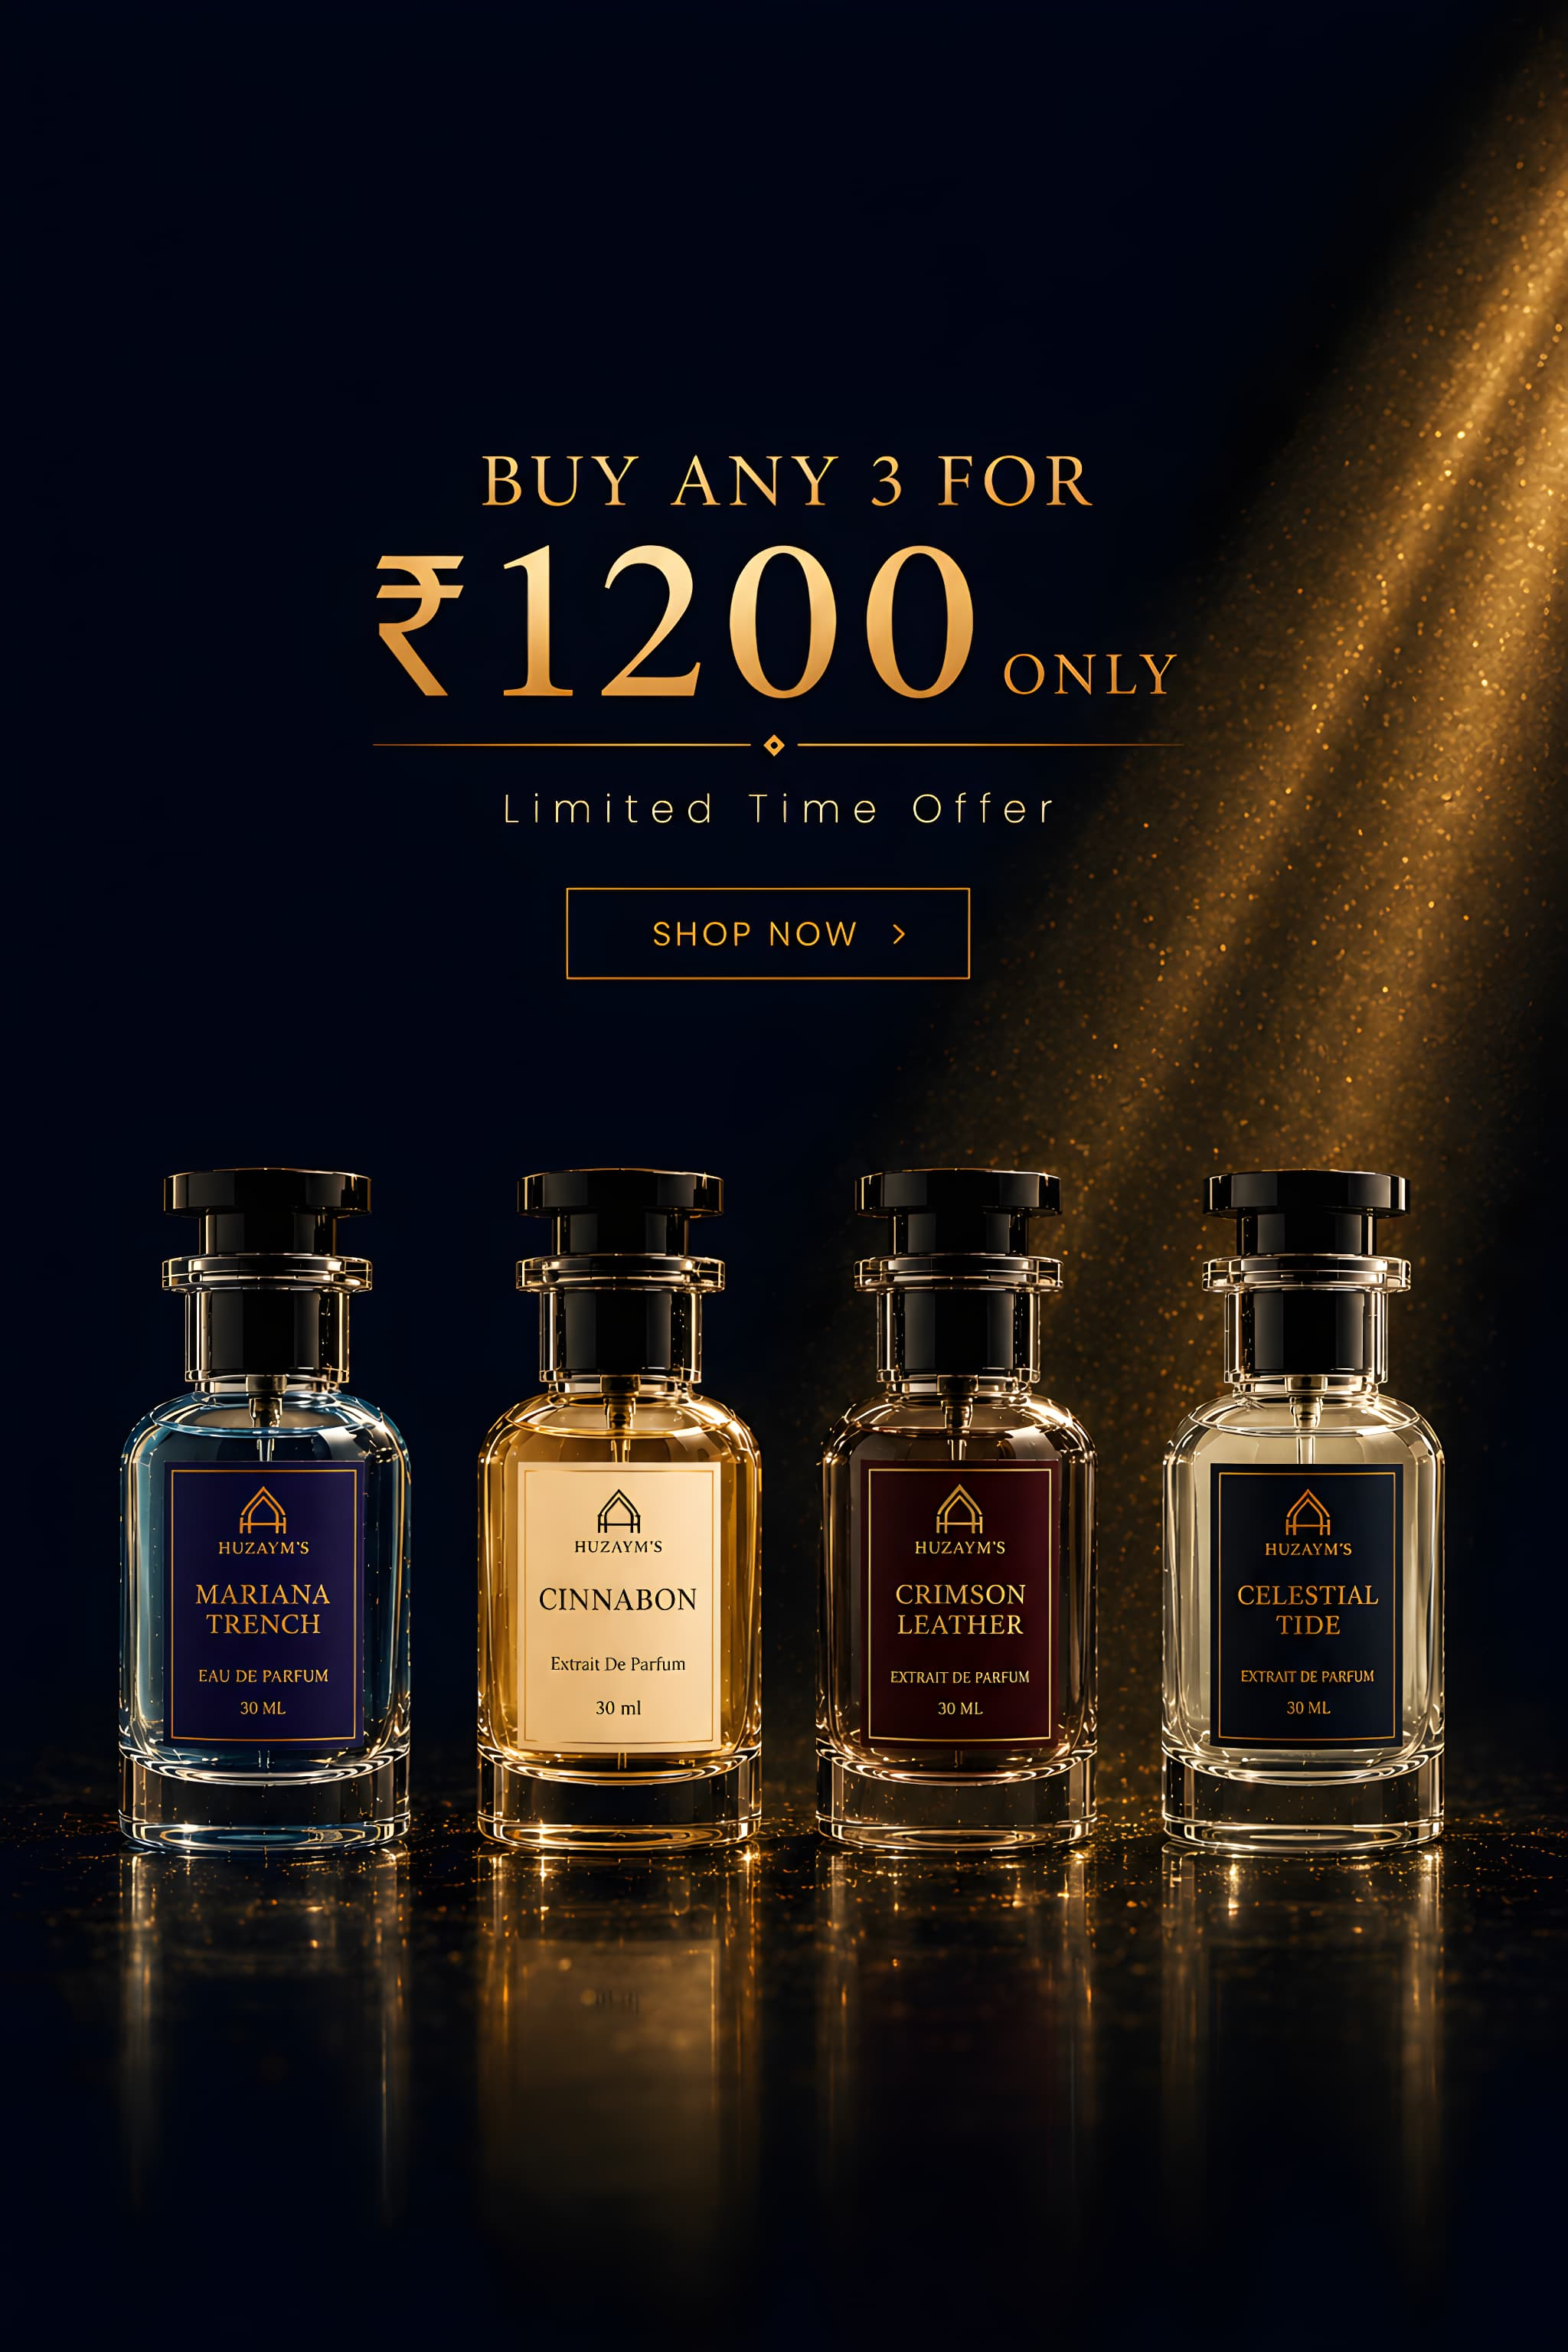
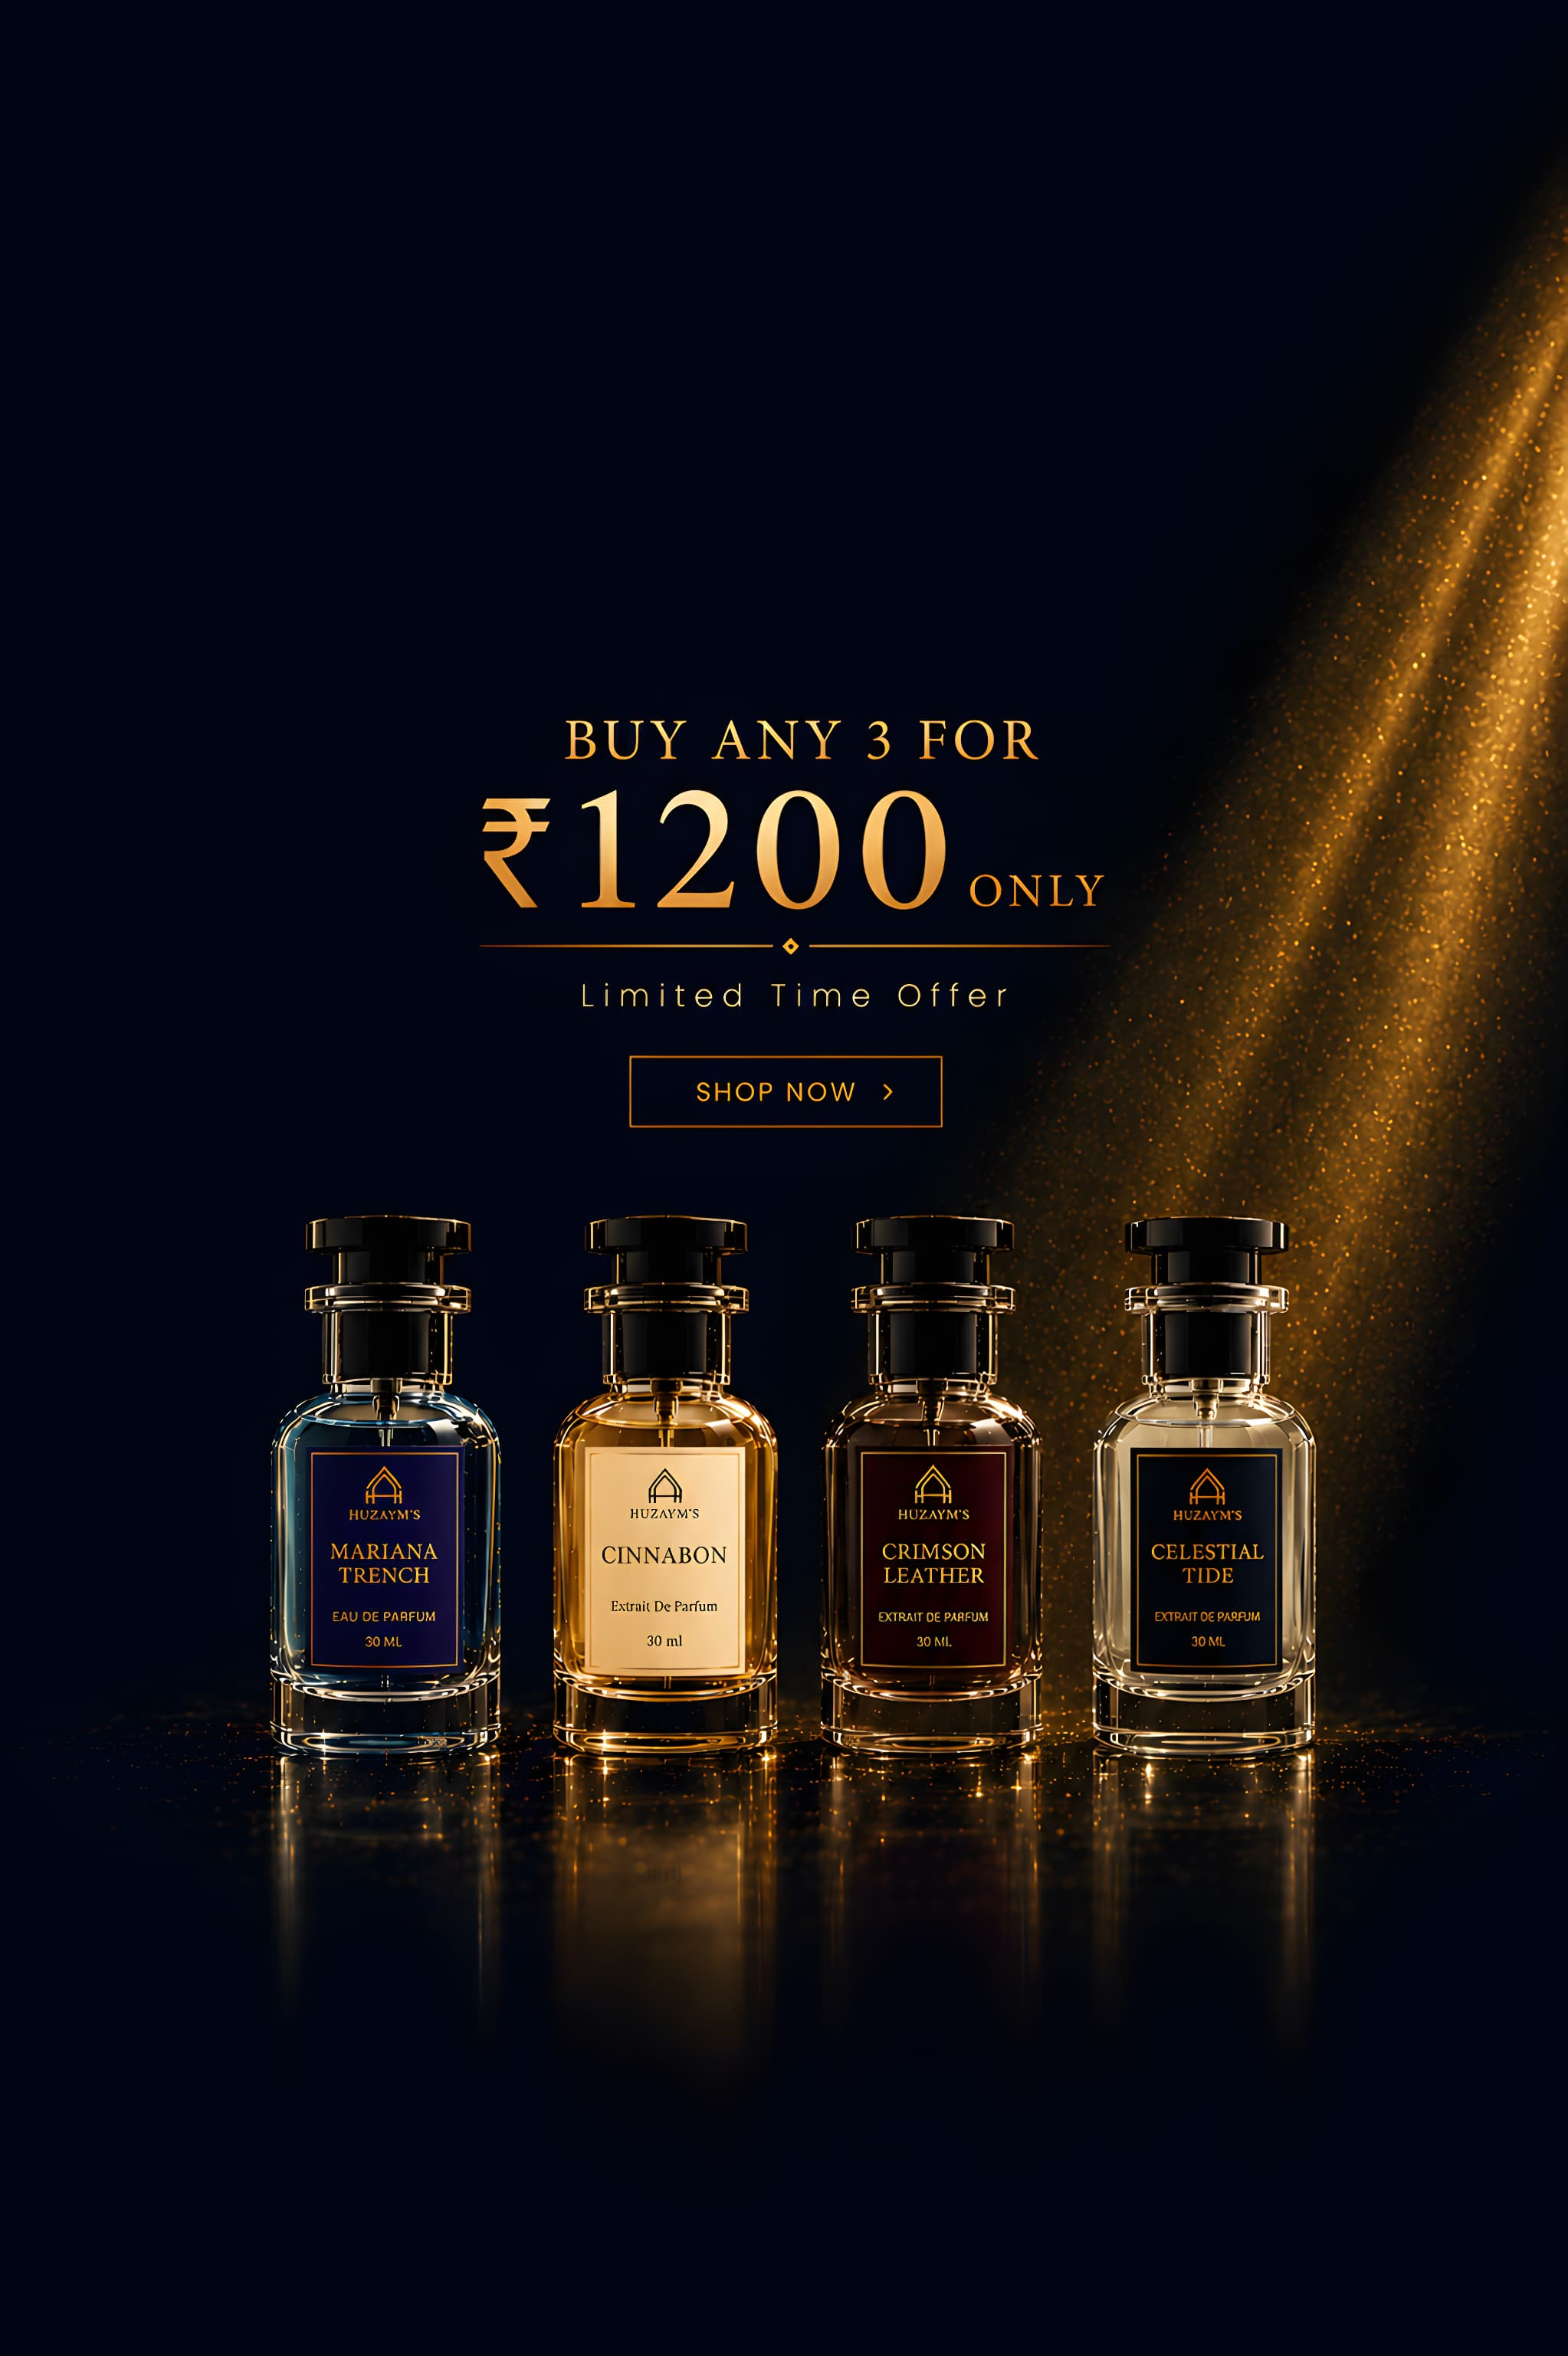
V1.2 completed

Changed region(s): [[0.0616, 0.0, 1.0, 0.9375], [0.2463, 0.2188, 0.3079, 0.3125]]

diff --git a/components/home/HeroCampaign.tsx b/components/home/HeroCampaign.tsx
@@ -1,22 +1,71 @@
 "use client";
 
-import { useState, useEffect } from "react";
+import { useState, useEffect, useRef } from "react";
 import Link from "next/link";
 import { HERO_SLIDES } from "@/data/heroSlides";
 
 export default function HeroCampaign() {
   const [currentSlide, setCurrentSlide] = useState(0);
+  const touchStartX = useRef<number | null>(null);
+const touchEndX = useRef<number | null>(null);
 
+const intervalRef = useRef<NodeJS.Timeout | null>(null);
   useEffect(() => {
-    const timer = setInterval(() => {
-      setCurrentSlide((prev) => (prev + 1) % HERO_SLIDES.length);
-    }, 5000);
+  startAutoSlide();
 
-    return () => clearInterval(timer);
-  }, []);
+  return stopAutoSlide;
+}, []);
+
+const stopAutoSlide = () => {
+  if (intervalRef.current) clearInterval(intervalRef.current);
+};
+
+const startAutoSlide = () => {
+  stopAutoSlide();
+
+  intervalRef.current = setInterval(() => {
+    setCurrentSlide((prev) => (prev + 1) % HERO_SLIDES.length);
+  }, 5000);
+};
+
+const nextSlide = () => {
+  setCurrentSlide((prev) => (prev + 1) % HERO_SLIDES.length);
+};
+
+const previousSlide = () => {
+  setCurrentSlide((prev) =>
+    prev === 0 ? HERO_SLIDES.length - 1 : prev - 1
+  );
+};
 
   return (
-  <section className="relative h-[85svh] lg:h-[92vh]">
+  <section
+  className="relative h-[85svh] lg:h-[92vh]"
+  onTouchStart={(e) => {
+    stopAutoSlide();
+    touchStartX.current = e.touches[0].clientX;
+  }}
+  onTouchMove={(e) => {
+    touchEndX.current = e.touches[0].clientX;
+  }}
+  onTouchEnd={() => {
+    if (
+      touchStartX.current !== null &&
+      touchEndX.current !== null
+    ) {
+      const distance = touchStartX.current - touchEndX.current;
+
+      if (distance > 60) nextSlide();
+
+      if (distance < -60) previousSlide();
+    }
+
+    touchStartX.current = null;
+    touchEndX.current = null;
+
+    startAutoSlide();
+  }}
+>
 
     {HERO_SLIDES.map((slide, index) => (
       <Link
@@ -26,7 +75,7 @@ export default function HeroCampaign() {
           absolute
           inset-0
           transition-opacity
-          duration-700
+          duration-1000 ease-in-out
           ${index === currentSlide ? "opacity-100 z-10" : "opacity-0 z-0"}
         `}
       >